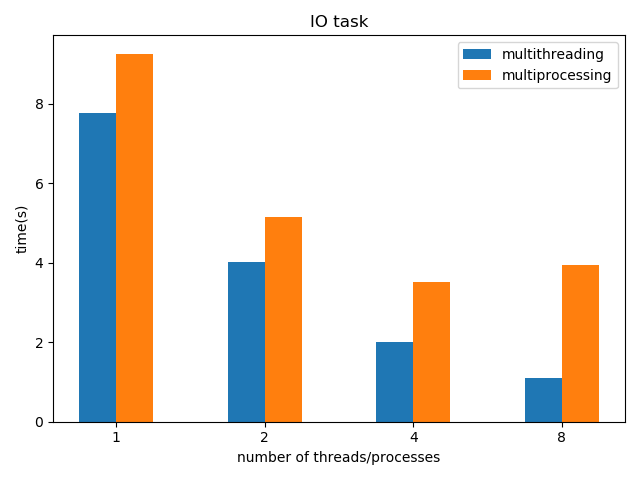
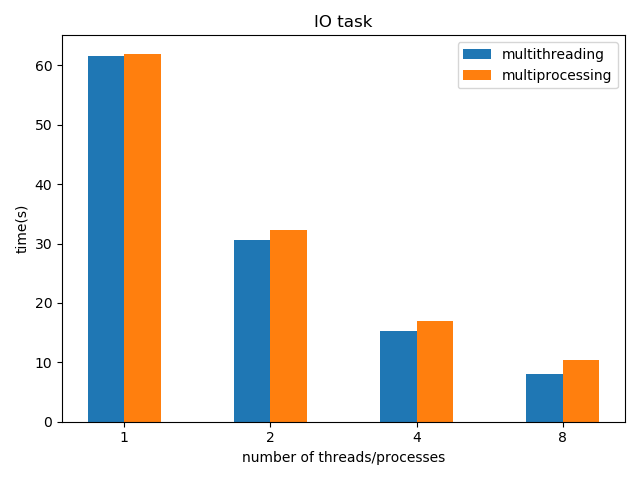
Resources updated

diff --git a/expIO.py b/expIO.py
@@ -49,8 +49,8 @@ def get_multiprocess_times(num_processes,image_ids):
 
 if __name__ == "__main__":
     threads_processes  = [1,2,4,8]
-    multithread_times = get_thread_times(threads_processes,list(range(8)))
-    multiprocess_times = get_multiprocess_times(threads_processes,list(range(8)))
+    multithread_times = get_thread_times(threads_processes,list(range(64)))
+    multiprocess_times = get_multiprocess_times(threads_processes,list(range(64)))
     plot_bar_graph([multithread_times,multiprocess_times],threads_processes,"time(s)",
                    "number of threads/processes","IO task","results\\io_task_comparision.png")
 

diff --git a/Readme.md b/Readme.md
@@ -6,7 +6,7 @@
 3. Multiprocessing does well in CPU intensive task as multiple processes would bypass the GIL limitation.
 4. Threads are typically lightweight and start instantaneously whereas processes are spawned/forked and slow to start.
 5. Combining data at the end processes involves use of multiprocessing queue which is a bit slower resulting in deterioration of multiprocessing performance.
-6. Transferring large amount of data through a multiprocessing queue may end up in a deadlock as they are implemented using OS pipes which are not infinitely long and may block until some process uses get() to retrieve data.(https://stackoverflow.com/questions/31665328/python-3-multiprocessing-queue-deadlock-when-calling-join-before-the-queue-is-em)
+6. Transferring large amount of data through a multiprocessing queue may end up in a deadlock as they are implemented using OS pipes which are not infinitely long and may block until some process uses get() to retrieve data.
 
 #### Observations 
 
@@ -32,4 +32,7 @@
             ![Not Cached High](results/not_cached_high.png)
         * Here multiprocessing perform best as expected.
             
-    
+3. Resources
+    * https://sumit-ghosh.com/articles/multiprocessing-vs-threading-python-data-science/
+    * https://stackoverflow.com/questions/31665328/python-3-multiprocessing-queue-deadlock-when-calling-join-before-the-queue-is-em
+    * https://docs.python.org/3/library/multiprocessing.html#multiprocessing-programming
